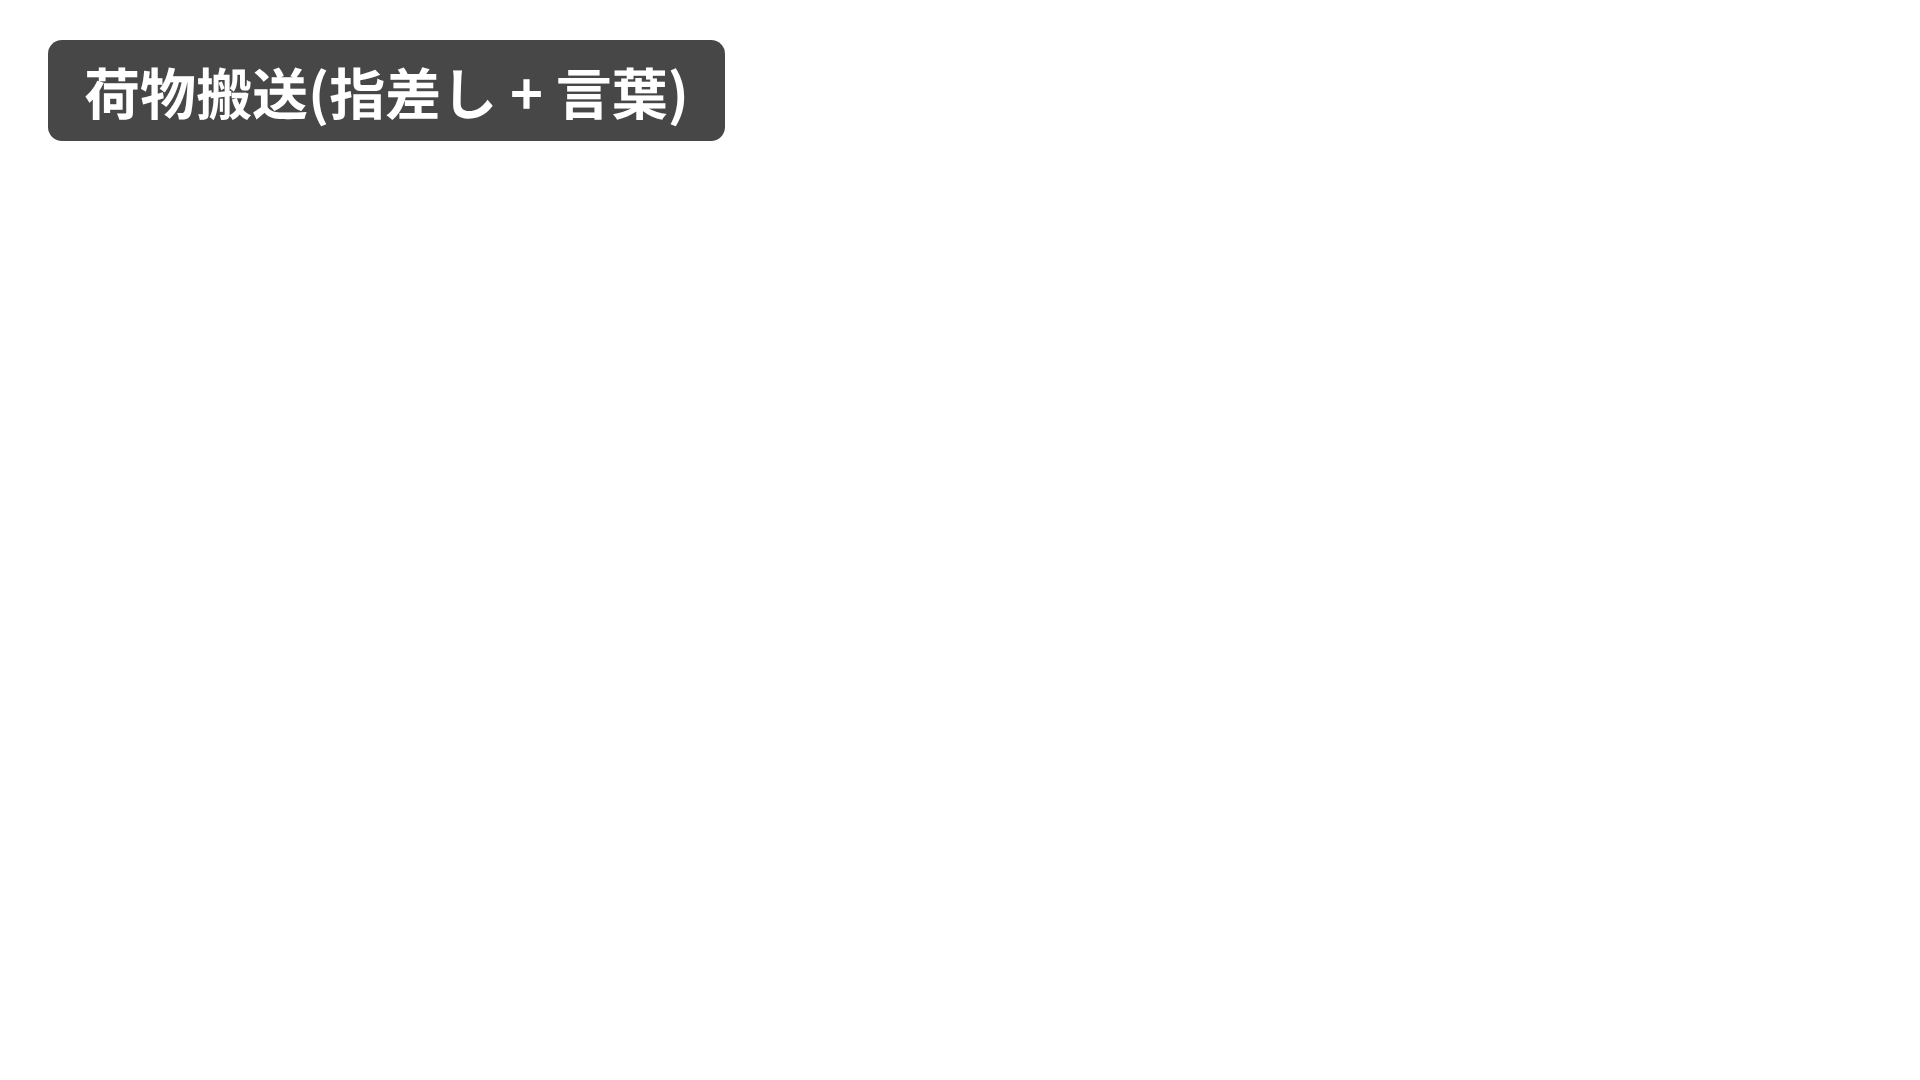
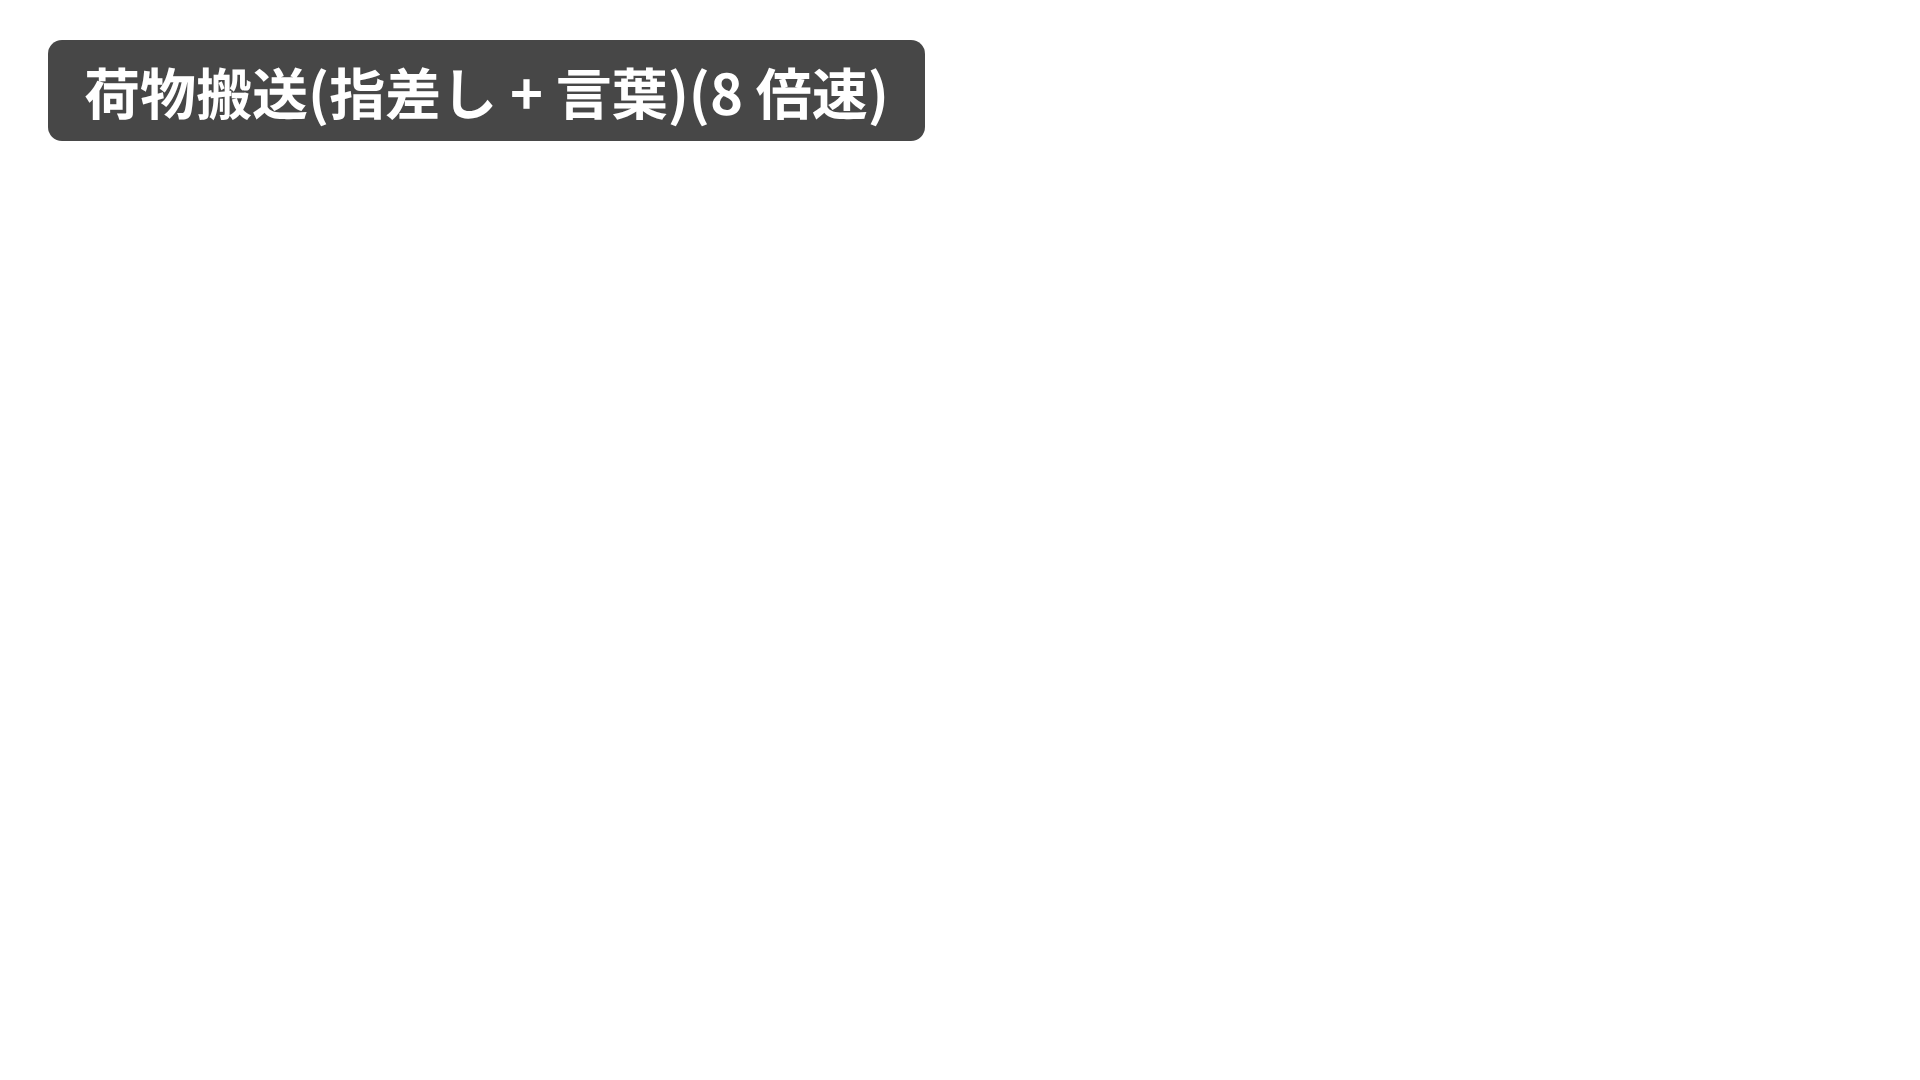
動画: 倍速表示とテロップを 1 枚に統合(8 倍速)、倍速表示の画像を削除

Changed region(s): [[0.3438, 0.0306, 0.5, 0.1528]]

diff --git a/docs/動画収録手順.md b/docs/動画収録手順.md
@@ -170,7 +170,7 @@ bash ~/ros2_ws/run_nav.sh cargo:=true
 
 録画は各場面の「録画開始」から「録画終了」まで。うまくいかなかったテイクは、リセットして撮り直す(編集で成功した回を使う)。
 
-### 場面 2(0:14–0:24)通常搬送と到着予測 ― 編集で 2 倍速
+### 場面 2(0:14–0:24)通常搬送と到着予測 ― 編集で 8 倍速、テロップ T2
 | 順 | 場所 | 操作 | 画面に出るもの |
 |---|---|---|---|
 | 1 | T2 | `./video_reset.sh` | |
@@ -192,7 +192,7 @@ bash ~/ros2_ws/run_nav.sh cargo:=true
 | 7 | (待つ) | | 荷物の前で積載(箱が消える)→ 出荷口で荷降ろし(箱が出荷口の前に出る) |
 | 8 | 録画終了 | T3 は `Ctrl+C` | |
 
-### 場面 4(0:44–1:12)迂回(荷物を積んだまま)― 編集で 2 倍速、前に画像 02 を 3 秒
+### 場面 4(0:44–1:12)迂回(荷物を積んだまま)― 編集で 8 倍速、テロップ T4、前に画像 02 を 3 秒
 | 順 | 場所 | 操作 | 画面に出るもの |
 |---|---|---|---|
 | 1 | T1・T2 | `Ctrl+C` → `./video_reset.sh` | |
@@ -242,7 +242,7 @@ bash ~/ros2_ws/run_nav.sh cargo:=true
 | 7 | 録画終了 | | |
 | 8 | T2 | `(cd ~/Desktop/pai_final/docker && docker compose -f compose.multi.yaml stop)` | 複数台用を止める |
 
-編集: C0 の膠着した回を 4 倍速で約 12 秒(画像 05b を重ねる)→ C3 の回を 2 倍速で約 12 秒(画像 05 を重ねる)。画面の上に「協調なし」「機体間通信」の文字を入れる。収録用の `docs/multi/C0_video.csv`・`C3_video.csv` は削除してよい。
+編集: C0 の膠着した回(テロップ T7a)→ C3 の回(テロップ T7b)を、どちらも 8 倍速で続ける。収録用の `docs/multi/C0_video.csv`・`C3_video.csv` は削除してよい。
 
 ## 4. 編集と書き出し(iMovie など)
 
@@ -252,26 +252,26 @@ bash ~/ros2_ws/run_nav.sh cargo:=true
 | 0:07–0:13 | 進め方(仮説 → 検証 → 修正の例 4 件) | 画像 01b |
 | 0:13–0:18 | システム構成(単一ロボット) | 画像 01c |
 | 0:18–0:22 | パート 1 表紙(単一ロボット) | 画像 01d |
-| 0:22–0:32 | 通常搬送と到着予測 | 場面 2(2 倍速、画像 05) |
+| 0:22–0:32 | 通常搬送と到着予測 | 場面 2(8 倍速、テロップ T2) |
 | 0:32–0:51 | 荷物搬送(指差し + 言葉) | 場面 3 |
-| 0:51–1:19 | 迂回 | 画像 02(3 秒)→ 場面 4(2 倍速、画像 05) |
+| 0:51–1:19 | 迂回 | 画像 02(3 秒)→ 場面 4(8 倍速、テロップ T4) |
 | 1:19–1:33 | 口頭解除と LiDAR 確認 | 場面 5 → 画像 03 |
 | 1:33–1:39 | 非常停止 | 場面 6 |
 | 1:39–1:47 | 問い 1 の答え:効いた要素と機能の実績 | 画像 04 |
 | 1:47–1:51 | パート 2 表紙(複数ロボット) | 画像 04b |
 | 1:51–1:58 | 複数台の構成と協調の方式(C1・C3・C4) | 画像 06 |
-| 1:58–2:21 | 2 台の正面すれ違い | 場面 7(C0 4 倍速 + 画像 05b → C3 2 倍速 + 画像 05) |
+| 1:58–2:21 | 2 台の正面すれ違い | 場面 7(C0 テロップ T7a → C3 テロップ T7b、8 倍速) |
 | 2:21–2:29 | 複数台の結果 | 画像 07 |
 | 2:29–2:37 | 通信の中身と、届かない場合・2 層 | 画像 08 |
 | 2:37–2:46 | 単一で効いた規則が裏目に出た点 | 画像 09 |
 | 2:46–2:58 | まとめ(2 つの問いへの答え、3 台以上への方針) | 画像 10 |
 
-1. 倍速の区間には、画像 05(2 倍速)・05b(4 倍速)を重ねる。
+1. 録画した場面は全て 8 倍速にし、左上にテロップ(T2〜T7b)を 1 枚重ねる。テロップの文言の末尾に「(8 倍速)」が入っている(倍速表示の画像は別に重ねない)。
 2. 書き出し: 1080p の MP4、長さ 3:00 以内。
-3. 録画した場面の左上に、内容のテロップ(T2〜T7b の PNG、透過)を重ねる。場面 2→T2、場面 3→T3、場面 4→T4、場面 5→T5、場面 6→T6、場面 7 の C0→T7a・C3→T7b。右上の倍速表示(05・05b・05c)と同じ体裁。
+3. テロップは場面 2→T2、場面 3→T3、場面 4→T4、場面 5→T5、場面 6→T6、場面 7 の C0→T7a・C3→T7b(`docs/video_assets/`、透過 PNG)。
 4. 画像 01c は説明資料 2-1 の図 2、01d・04b は各パートの表紙。目安 2:58 で余裕が少ない。超える場合は場面 3(荷物搬送)と画像 01b・08 を短くする。
-5. 確認: 顔・氏名・メール・ユーザー名・個人のフォルダ名が映っていない。倍速の表示がある。
+5. 確認: 顔・氏名・メール・ユーザー名・個人のフォルダ名が映っていない。全ての録画場面に「(8 倍速)」のテロップがある。
 6. 画像は `docs/video_assets/`(1920×1080)。報告書と同じ図・数字から作った(生成スクリプトは報告書の作成環境にあり、リポジトリには含めない)。
 
 ## 5. YouTube
-タイトル `PAI最終課題_okada198803`、公開、子ども向け・年齢制限は「いいえ」、プレミア公開なし。概要欄: 「一部の場面は 2 倍速・4 倍速です。」と GitHub の URL。採点が完了するまで削除・非公開にしない。
+タイトル `PAI最終課題_okada198803`、公開、子ども向け・年齢制限は「いいえ」、プレミア公開なし。概要欄: 「録画した場面は全て 8 倍速です。」と GitHub の URL。採点が完了するまで削除・非公開にしない。
